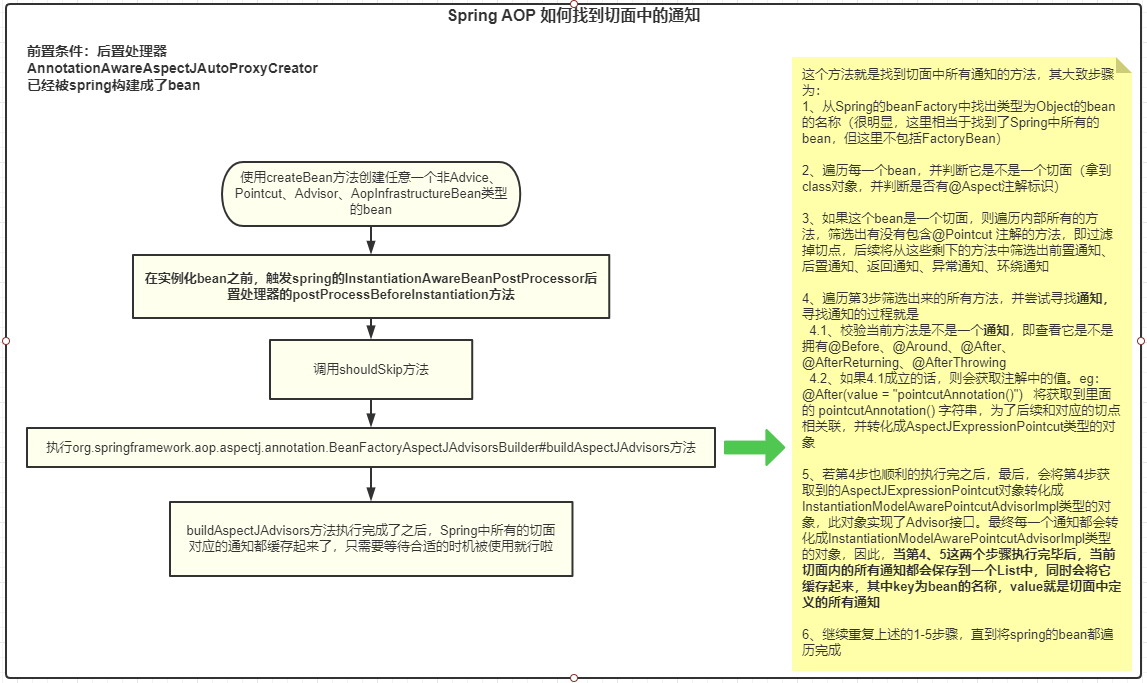
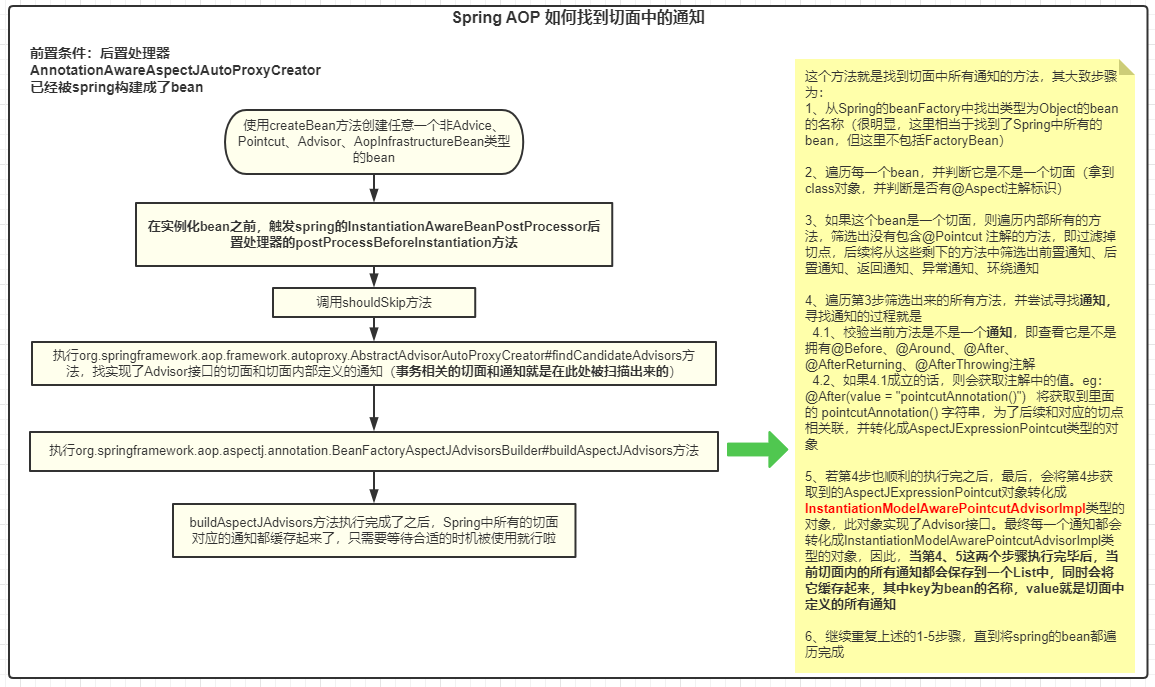
spring aop原理图（todo: 将他们整合起来）

Changed region(s): [[0.0, 0.0, 1.0, 1.0]]

diff --git a/spring aop相关知识点总结/spring aop原理篇：了解spring是如何将切面织入到目标方法 以及aop的执行顺序/README.md b/spring aop相关知识点总结/spring aop原理篇：了解spring是如何将切面织入到目标方法 以及aop的执行顺序/README.md
@@ -12,7 +12,7 @@
 
 #### 一、源码中是如何将我们定义的各种通知与目标方法绑定起来的
 
-* 如果让各位自己来实现aop你会采用什么方式？不管是使用哪种方式来实现，最终一定会使用**代理设计模式**。毫无疑问，我们使用代理对象来增强目标对象，然后在执行目标对象的方法之前或者之后，我们可以执行很多自定义的操作：比如前置操作、后置操作等等。那spring是如何实现aop的呢？大家都知道，在使用spring 的aop之前，我们需要定义**切面、切点、通知**，有了这三个东西后，spring才能知道要对哪个目的地（切点）做逻辑增强（通知）。接下来，咱们来分析下spring的做法。
+* 如果让各位自己来实现aop你会采用什么方式？（3分钟后过后....）不管是使用哪种方式来实现，最终一定会使用**代理设计模式**。毫无疑问，我们使用代理对象来增强目标对象，然后在执行目标对象的方法之前或者之后，我们可以执行很多自定义的操作：比如前置操作、后置操作等等。那spring是如何实现aop的呢？大家都知道，在使用spring 的aop之前，我们需要定义**切面、切点、通知**，有了这三个东西后，spring才能知道要对哪个目的地（切点）做逻辑增强（通知）。接下来，咱们来分析下spring的做法。
 
 ##### 1.1 @EnableAspectJAutoProxy注解的含义
 
@@ -80,7 +80,7 @@
       // Create proxy here if we have a custom TargetSource.
       // Suppresses unnecessary default instantiation of the target bean:
       // The TargetSource will handle target instances in a custom fashion.
-      TargetSource targetSource = getCustomTargetSource(beanClass, beanName); // @2
+      TargetSource targetSource = getCustomTargetSource(beanClass, beanName);
       if (targetSource != null) {
           if (StringUtils.hasLength(beanName)) {
               this.targetSourcedBeans.add(beanName);
@@ -95,7 +95,7 @@
   }
   ```
 
-* @1处的代码比较核心，其主要逻辑是：判断当前bean是否为基础类（Advice.class、Pointcut.class、Advisor.class、AopInfrastructureBean.class），如果不是基础类的话，会执行**shouldSkip**方法的逻辑，在这个方法中，会去找当前bean的所有**通知**。那这个找通知的过程是如何执行的呢？这里的源码执行逻辑比较复杂，我们可以先看结果：
+* @1处的代码比较核心，其主要逻辑是：判断当前bean是否为基础类（Advice.class、Pointcut.class、Advisor.class、AopInfrastructureBean.class），如果不是基础类的话，会执行**shouldSkip**方法的逻辑。而在**shouldSkip**这个方法中，会去找项目中所有的切面以及切面内部定义的**通知**（包括实现了Advisor接口的切面和通知、自定义的切面和通知）。那这个找通知的过程是如何执行的呢？这里的源码执行逻辑比较复杂，我们可以先看结果：
 
   ![找出当前bean对应的所有通知.png](找出当前bean对应的所有通知.png)
 
@@ -105,8 +105,62 @@
 
   根据图中的分析可知，当shouldSkip方法执行完毕后，整个spring容器中所有的切面中定义的**通知**都会被缓存到内存中，大家可能会有疑惑，我怎么知道**哪个**通知适用于哪个切点呢？还记得在将通知转换成AspectJExpressionPointcut时有保存每个通知中的表达式吧？eg：`@After(value = "pointcutAnnotation()")  将获取到里面的 pointcutAnnotation() 字符串`。有了这个的话，我在找对应关系时，我看下哪个切点的方法名是这个，不就对应上了吗？
 
-* @2处的代码是自定义代理对象逻辑，我们很少用到，直接跳过。
-* 结论：AnnotationAwareAspectJAutoProxyCreator的postProcessBeforeInstantiation方法的主要核心在于将容器中所有的切面对应的通知都扫描出来并转化成InstantiationModelAwarePointcutAdvisorImpl并缓存起来了。一种预热机制，先把数据准备好，后续需要时直接再从缓存中拿。
+  同时，在图中有提到**InstantiationModelAwarePointcutAdvisorImpl**对象。它的本质是一个Advisor。在找通知的过程中，会将每个通知包装成**InstantiationModelAwarePointcutAdvisorImpl**类型的对象，其中这个对象中有一个特别重要的属性，就是：**instantiatedAdvice**，这个属性是Advice的类型的。其中，针对我们的通知类型，会将它转化成对应的Advice。其转换类型如下表中所示：
+
+  | 切面中定义的通知类型 | 切面中定义的通知类型的注解 | Advice类型                  |
+  | -------------------- | -------------------------- | --------------------------- |
+  | AtBefore             | @Before                    | AspectJMethodBeforeAdvice   |
+  | AtAfter              | @After                     | AspectJAfterAdvice          |
+  | AtAfterReturning     | @AfterReturning            | AspectJAfterReturningAdvice |
+  | AtAfterThrowing      | @AfterThrowing             | AspectJAfterThrowingAdvice  |
+  | AtAround             | @Around                    | AspectJAroundAdvice         |
+
+  其对应的源码如下所示：
+
+  ```java
+  AbstractAspectJAdvice springAdvice;
+  
+  switch (aspectJAnnotation.getAnnotationType()) {
+      case AtBefore:
+          springAdvice = new AspectJMethodBeforeAdvice(
+              candidateAdviceMethod, expressionPointcut, aspectInstanceFactory);
+          break;
+      case AtAfter:
+          springAdvice = new AspectJAfterAdvice(
+              candidateAdviceMethod, expressionPointcut, aspectInstanceFactory);
+          break;
+      case AtAfterReturning:
+          springAdvice = new AspectJAfterReturningAdvice(
+              candidateAdviceMethod, expressionPointcut, aspectInstanceFactory);
+          AfterReturning afterReturningAnnotation = (AfterReturning) aspectJAnnotation.getAnnotation();
+          if (StringUtils.hasText(afterReturningAnnotation.returning())) {
+              springAdvice.setReturningName(afterReturningAnnotation.returning());
+          }
+          break;
+      case AtAfterThrowing:
+          springAdvice = new AspectJAfterThrowingAdvice(
+              candidateAdviceMethod, expressionPointcut, aspectInstanceFactory);
+          AfterThrowing afterThrowingAnnotation = (AfterThrowing) aspectJAnnotation.getAnnotation();
+          if (StringUtils.hasText(afterThrowingAnnotation.throwing())) {
+              springAdvice.setThrowingName(afterThrowingAnnotation.throwing());
+          }
+          break;
+      case AtAround:
+          springAdvice = new AspectJAroundAdvice(
+              candidateAdviceMethod, expressionPointcut, aspectInstanceFactory);
+          break;
+      case AtPointcut:
+          if (logger.isDebugEnabled()) {
+              logger.debug("Processing pointcut '" + candidateAdviceMethod.getName() + "'");
+          }
+          return null;
+      default:
+          throw new UnsupportedOperationException(
+              "Unsupported advice type on method: " + candidateAdviceMethod);
+  }
+  ```
+
+* 结论：AnnotationAwareAspectJAutoProxyCreator的postProcessBeforeInstantiation方法的主要核心在于将容器中**所有的切面对应的通知都扫描出来并包装成InstantiationModelAwarePointcutAdvisorImpl类型并添加到缓存中**（**这里要注意：不管是自定义的切面、还是实现了Advisor接口的切面都会被扫描出来**）。一种预热机制，先把数据准备好，后续需要时直接再从缓存中拿。
 
 ##### 1.4 AnnotationAwareAspectJAutoProxyCreator的postProcessAfterInitialization做了什么事
 
@@ -124,7 +178,7 @@
   }
   ```
 
-* 这段源码的主要核心部分为：`@1`处的位置，这段代码就是创建代理对象的入口。其方法名也比较特殊**包装如果有必要的话**，如果你比较有经验的话，并且知道静态代理的话。这块儿的做法也一样，其实就是生成了一个代理对象，然后将目标对象包裹在里面。那**wrapIfNecessary**这个方法到底做了什么事呢？其源码如下所示：
+* 这段源码的主要核心部分为：`@1`处的位置，这段代码就是创建代理对象的入口。其方法名也比较见名知意：**包装如果有必要的话**，如果你比较有经验并且知道静态代理的话。这块儿的做法也一样，其实就是生成了一个代理对象，然后将目标对象包裹在里面。那**wrapIfNecessary**这个方法到底做了什么事呢？其源码如下所示：
 
   ```java
   protected Object wrapIfNecessary(Object bean, String beanName, Object cacheKey) {
@@ -156,12 +210,12 @@
 
 * 我们先看下`@1`指向的代码，有没有觉得很相似。没错，它在1.3章节说到的**AnnotationAwareAspectJAutoProxyCreator的postProcessBeforeInstantiation**处也出现了，这是为什么呢？还记得我们在1.3章节中总结的那几个扩展点的执行顺序吧？不管一个bean需不需要被代理，都会执行AnnotationAwareAspectJAutoProxyCreator后置处理器，而`@1`指向的代码的含义仅仅是判断当前bean是否需要被代理而已，如果一个bean不需要被代理，那应该AnnotationAwareAspectJAutoProxyCreator后置处理器不应该对bean做任何操作。
 
-* `@2`指向的代码逻辑为：看这个bean是否有定义切面，如果有，则把定义的通知都找出来
+* `@2`指向的代码逻辑为：看这个bean是否有定义切面，如果有，则把对应的通知都找出来，最终转化成一个个的拦截器，后续生成代理对象时，内部要维护这些拦截器，以实现调用我们定义好的通知的目的。
 
 * `@3`指向的代码逻辑为：真实创建代理对象的逻辑，最终会调用到如下代码创建代理对象
 
   ```java
-  // org.springframework.aop.framework.DefaultAopProxyFactory#createAopProxy
+  // 方法坐标：org.springframework.aop.framework.DefaultAopProxyFactory#createAopProxy
   
   @Override
   public AopProxy createAopProxy(AdvisedSupport config) throws AopConfigException {
@@ -173,7 +227,7 @@
               throw new AopConfigException("TargetSource cannot determine target class: " +
                                            "Either an interface or a target is required for proxy creation.");
           }
-          // 就算@EnableAspectJAutoProxy配置的proxyTargetClass属性设置为true，只要目标对象实现了接口的话，同样也会使用jdk动态代理生成
+          // 如果目标类是一个接口的话，只能使用都jdk动态代理
           if (targetClass.isInterface() || Proxy.isProxyClass(targetClass)) {
               return new JdkDynamicAopProxy(config);
           }
@@ -195,22 +249,20 @@
   >
   > Q2：使用@EnableAspectJAutoProxy注解开启aop功能后，如何让spring使用cglib生成代理对象，如何让spring使用jdk动态代理生成代理对象？
   >
-  > A2：答案可参考下表
+  > A2：设置proxyTargetClass设置为true
 
-  | 目标对象特性   | proxyTargetClass属性                                         |
-  | -------------- | ------------------------------------------------------------ |
-  | 未实现接口     | 不管proxyTargetClass设置为true还是false，最终都是使用cglib生成代理对象 |
-  | 只要实现了接口 | 不管proxyTargetClass设置为true还是false，最终都是使用jdk动态代理生成代理对象 |
-
-* 因为我们的ObjectServiceImpl类实现了接口，因此，最终生成的代理对象类型为：**org.springframework.aop.framework.JdkDynamicAopProxy**
+  因为我们的@EnableAspectJAutoProxy注解并未指定使用cglib代理，因此，最终生成的代理对象类型为：**org.springframework.aop.framework.JdkDynamicAopProxy**（根据方法的返回值签名知道的）。
+  
 
 ##### 1.5 代理对象的执行过程
 
-* 在1.4章节中有说到，最终ObjectServiceImpl生成的代理对象类型为：**org.springframework.aop.framework.JdkDynamicAopProxy**。如果大家熟悉jdk动态代理的话，我们可以直接到JdkDynamicAopProxy类中找invoke方法。invoke方法就是我们代理对象的执行入口了
+* 在1.4章节中有说到，最终ObjectServiceImpl生成的代理对象类型为：**org.springframework.aop.framework.JdkDynamicAopProxy**。如果大家熟悉jdk动态代理的话，我们可以直接到**JdkDynamicAopProxy**类中找invoke方法。invoke方法就是我们代理对象的执行入口了
 
 * invoke方法的逻辑比较长，其中有对一些基础方法的判断，对于Object类的equals、hashCode方法则不进行代理，直接执行目标方法。因此，剩下的就是需要被代理的逻辑了，下面的代码演示展示的就是代理方法的逻辑：
 
   ```java
+  // 方法坐标：org.springframework.aop.framework.JdkDynamicAopProxy#invoke
+  
   @Override
   @Nullable
   public Object invoke(Object proxy, Method method, Object[] args) throws Throwable {
@@ -235,16 +287,16 @@
           target = targetSource.getTarget();
           Class<?> targetClass = (target != null ? target.getClass() : null);
   
-          // 这一步：就是调用增强方法和目标方法的逻辑了
+          // 这一步：获取当前执行的目标方法，已经为目标方法定义的一些通知，最终以拦截器的方式存储在list中
           List<Object> chain = this.advised.getInterceptorsAndDynamicInterceptionAdvice(method, targetClass); // @1
   
           if (chain.isEmpty()) {
               // 省略无关代码
           }
           else {
-              // We need to create a method invocation...
+              // 构建链路的调用器
               invocation = new ReflectiveMethodInvocation(proxy, target, method, args, targetClass, chain); // @2
-              // Proceed to the joinpoint through the interceptor chain.
+              // 开始执行链路上的方法
               retVal = invocation.proceed(); // @3
           }
   
@@ -264,7 +316,7 @@
 
 * 上述`@1`处指定的代码处主要是获取一个方法调用链路，如果熟悉责任链设计模式的话，这一步相当于是构建所有的链路
 
-* 上述`@2`处指定的代码处主要是构建一个方法调用入口，如果熟悉责任链设计模式的话，这一步相当于是将所有的链路铺好（哪个链要放在第一个位置被调用，哪个链要放在第二个位置被调用、哪个链要放在最后一个位置被调用），等待一个执行
+* 上述`@2`处指定的代码处主要是构建一个方法调用入口，如果熟悉责任链设计模式的话，这一步相当于是将所有的链路铺好（哪个链要放在第一个位置被调用，哪个链要放在第二个位置被调用、哪个链要放在最后一个位置被调用），等待被触发
 
 * 上述`@3`处指定的代码为链路的执行者，表示要开始执行链路上的所以方法了。
 
